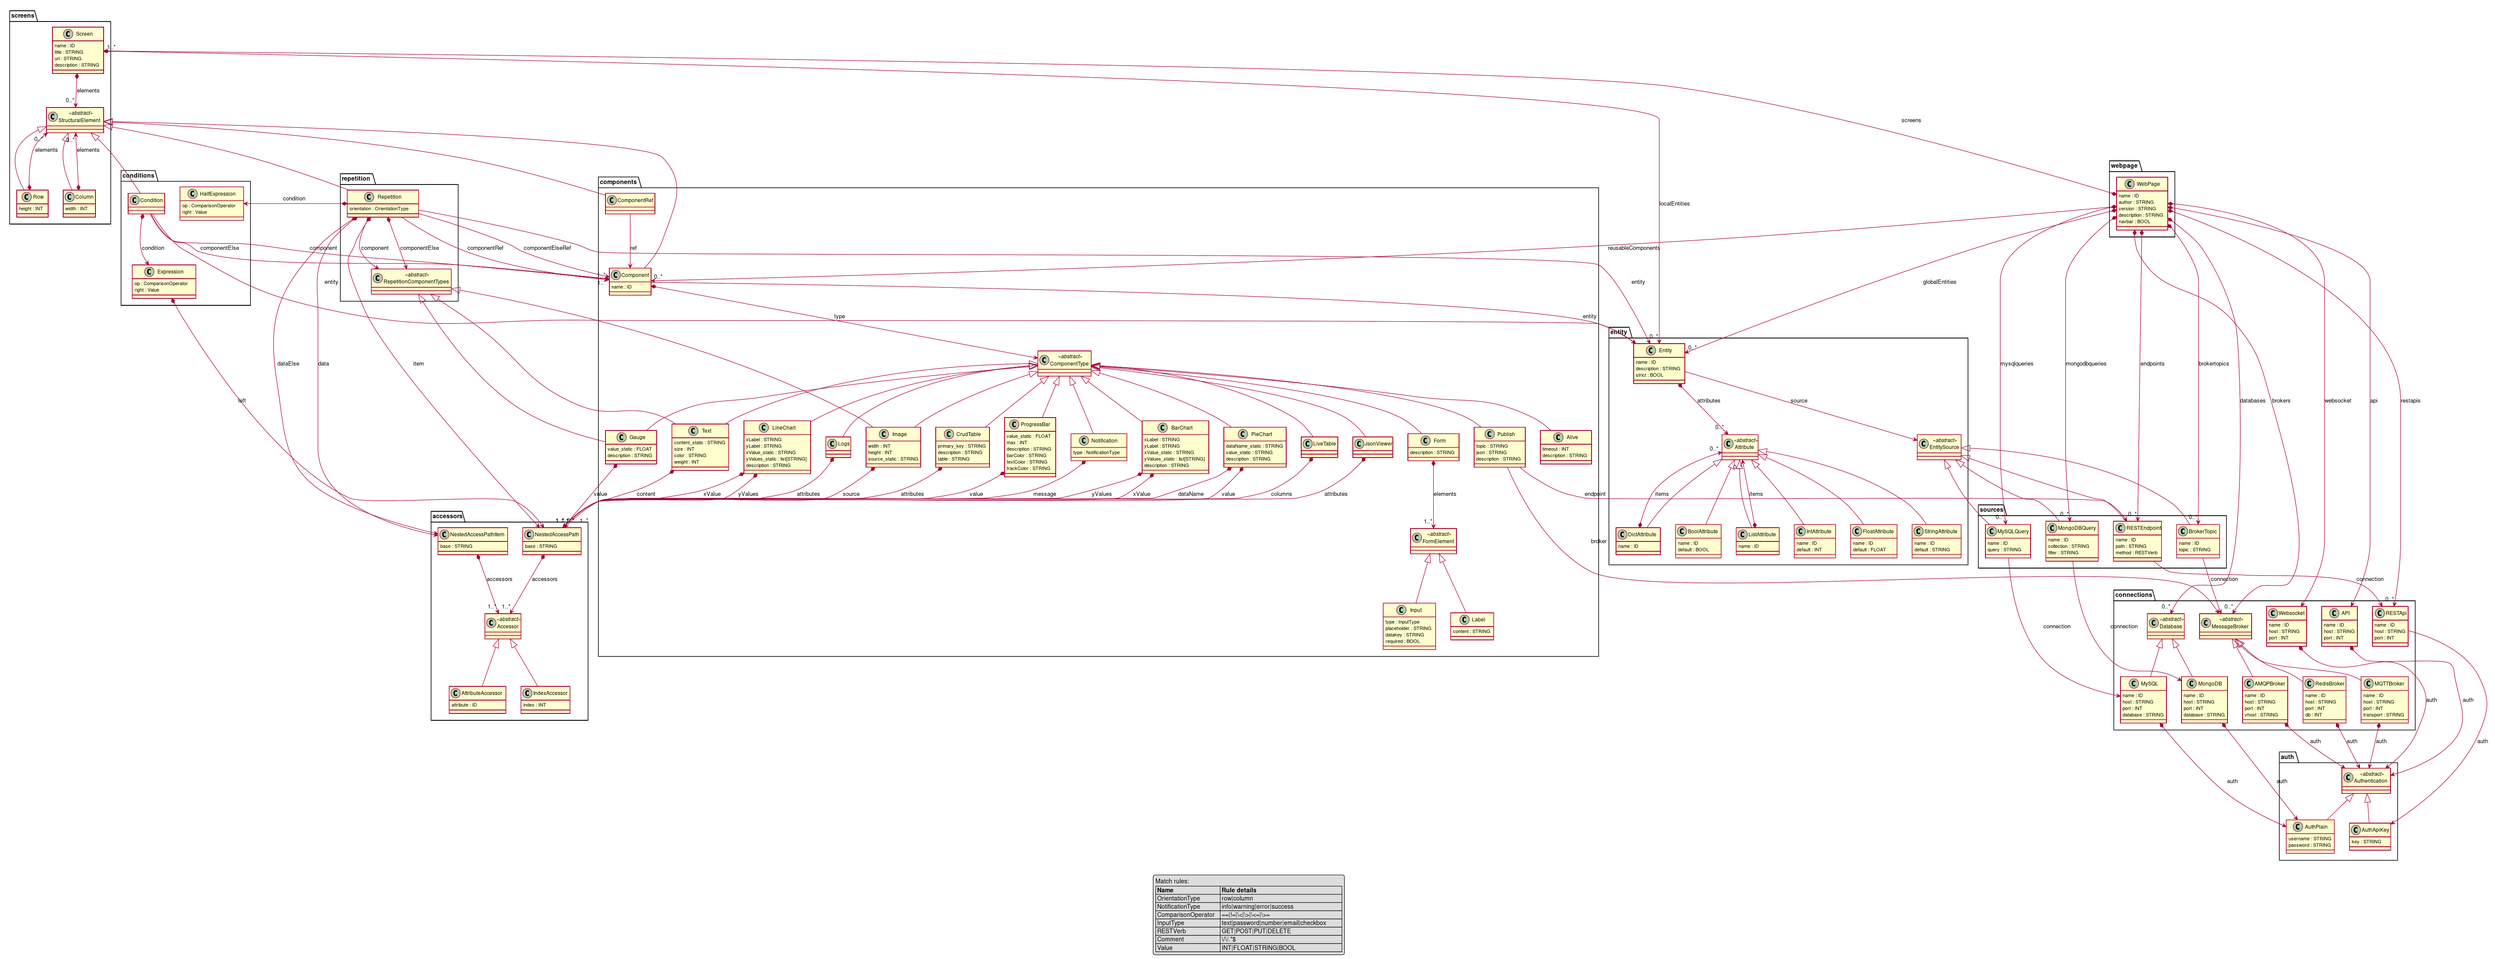
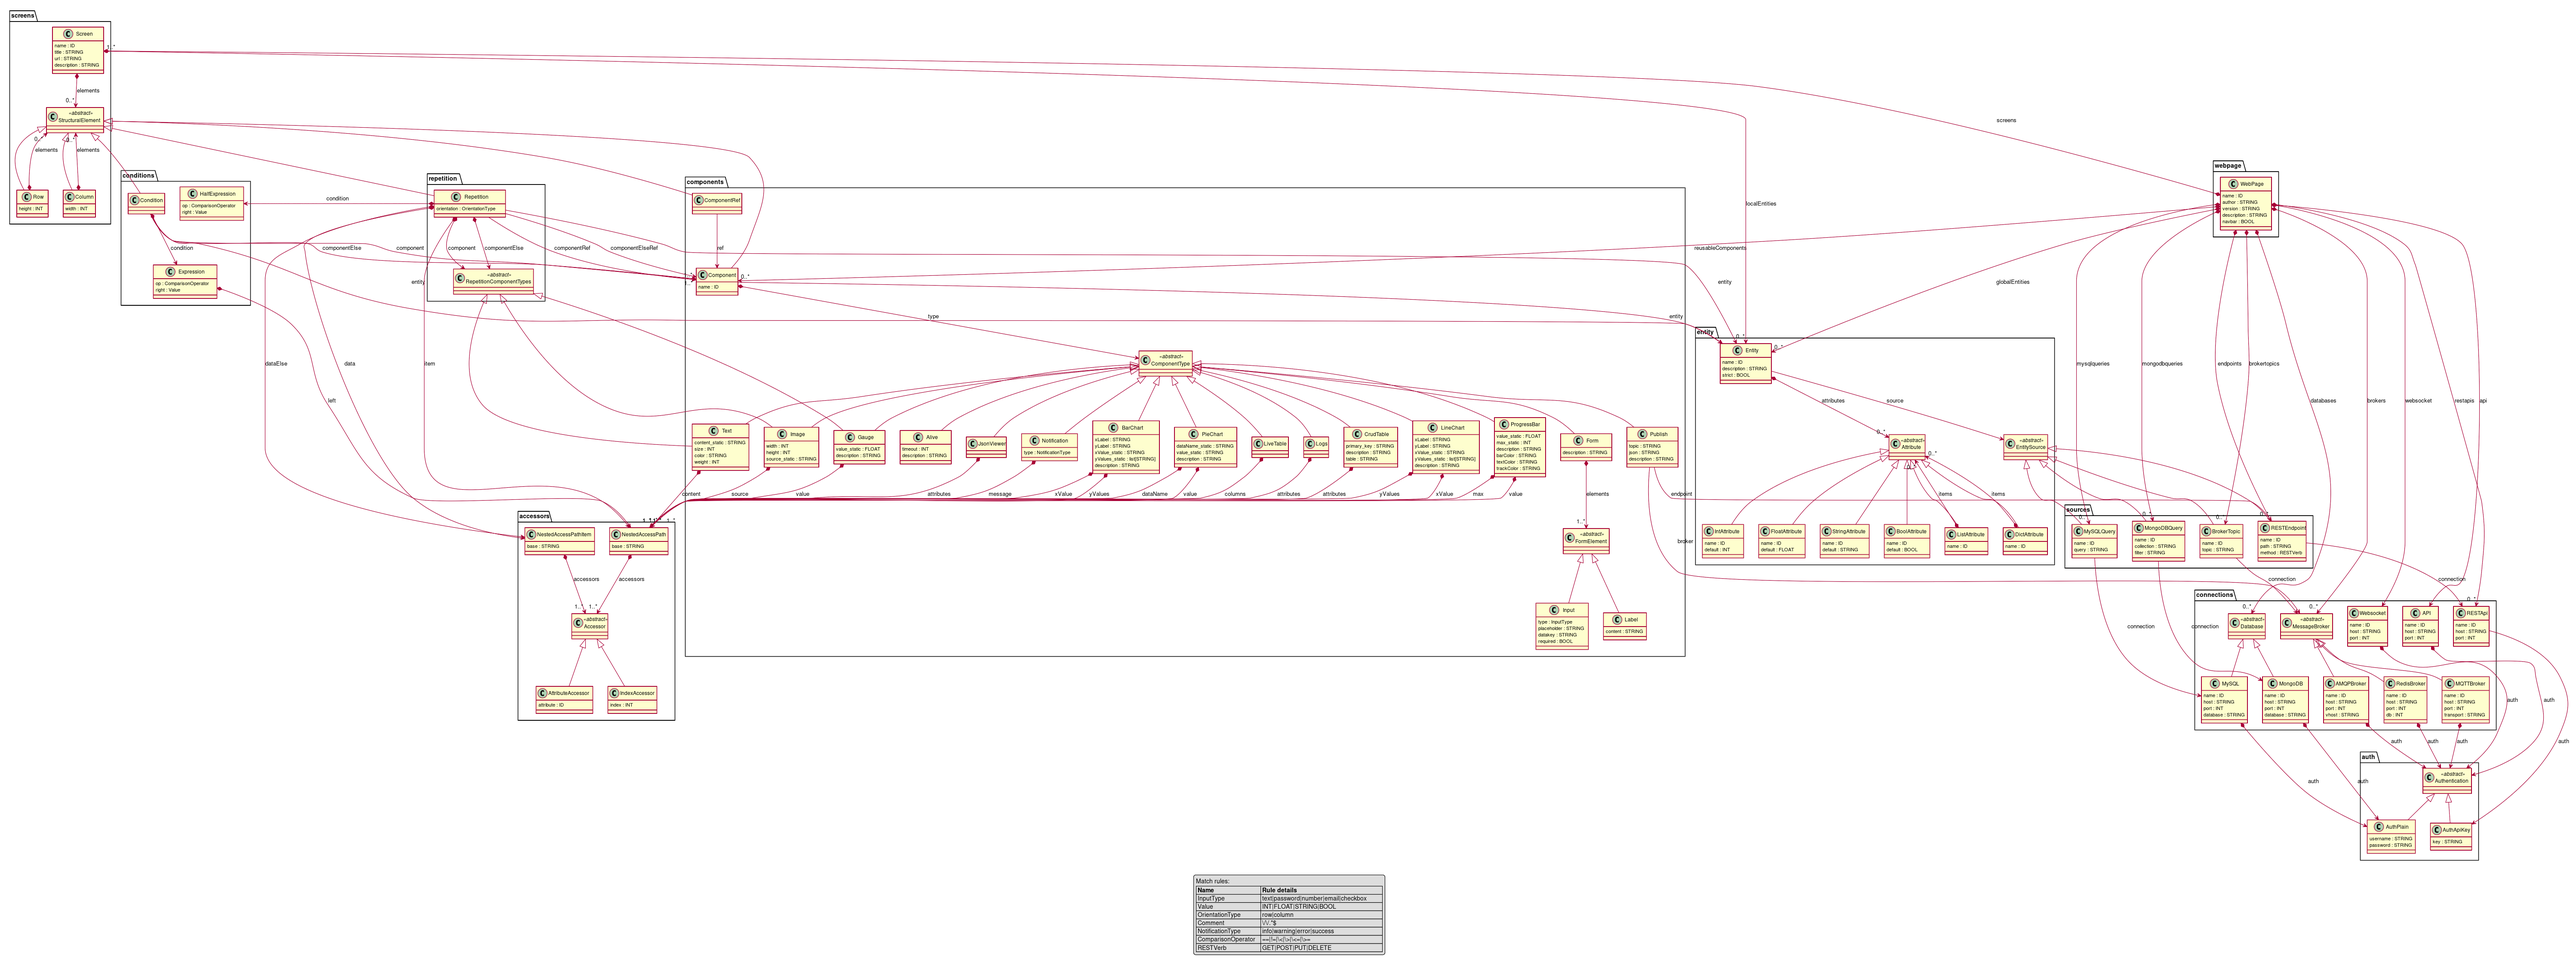
Max value in progress bar can be live value

diff --git a/web_dsl/base/frontend_base/src/components/ProgressBar.jsx b/web_dsl/base/frontend_base/src/components/ProgressBar.jsx
@@ -14,7 +14,8 @@ const ProgressBar = ({
     staticValue,
     dbData,
     contentPath,
-    max = 100,
+    max,
+    maxStatic = 0,
     description,
     barColor = "#80A499",
     textColor = "#fff",
@@ -22,10 +23,16 @@ const ProgressBar = ({
 }) => {
     const ws = useContext(WebsocketContext);
     const [currentValue, setCurrentValue] = useState(staticValue || 0);
-    const percentage = Math.min((currentValue / max) * 100, 100);
+    const [maxValue, setMaxValue] = useState(maxStatic || 0);
+    const percentage = Math.min((currentValue / maxValue) * 100, 100);
+
     useWebsocket(sourceOfContent === "broker" ? ws : null, topic, (msg) => {
         try {
             const data = getValueByPath(msg, contentPath);
+            if (maxStatic === 0) {
+                const newMax = getValueByPath(msg, max);
+                setMaxValue(newMax);
+            }
             setCurrentValue(data);
         } catch (error) {
             toast.error(
@@ -38,10 +45,18 @@ const ProgressBar = ({
     const reloadValue = async () => {
         if (sourceOfContent === "rest") {
             const data = await fetchValueFromRest(restData, contentPath);
+            if (maxStatic === 0) {
+                const newMax = await fetchValueFromRest(restData, max);
+                setMaxValue(newMax);
+            }
             setCurrentValue(data);
         }
         if (sourceOfContent === "db") {
             const data = await fetchValueFromDB(dbData, contentPath);
+            if (maxStatic === 0) {
+                const newMax = await fetchValueFromDB(dbData, max);
+                setMaxValue(newMax);
+            }
             setCurrentValue(data);
         }
     };

diff --git a/web_dsl/lib/component.py b/web_dsl/lib/component.py
@@ -336,6 +336,7 @@ class ProgressBar(ComponentType):
         name="ProgressBar",
         value=None,
         value_static=None,
+        max_static=None,
         max=None,
         description=None,
         barColor=None,
@@ -343,10 +344,13 @@ class ProgressBar(ComponentType):
         textColor=None,
     ):
         super().__init__(parent, name)
+        print(max_static)
         if value is not None:
             self.value = self.format_attribute_path(value)
         self.value_static = value_static
-        self.max = max
+        if max is not None:
+            self.max = self.format_attribute_path(max)
+        self.max_static = max_static
         self.description = description
         self.barColor = barColor
         self.trackColor = trackColor
